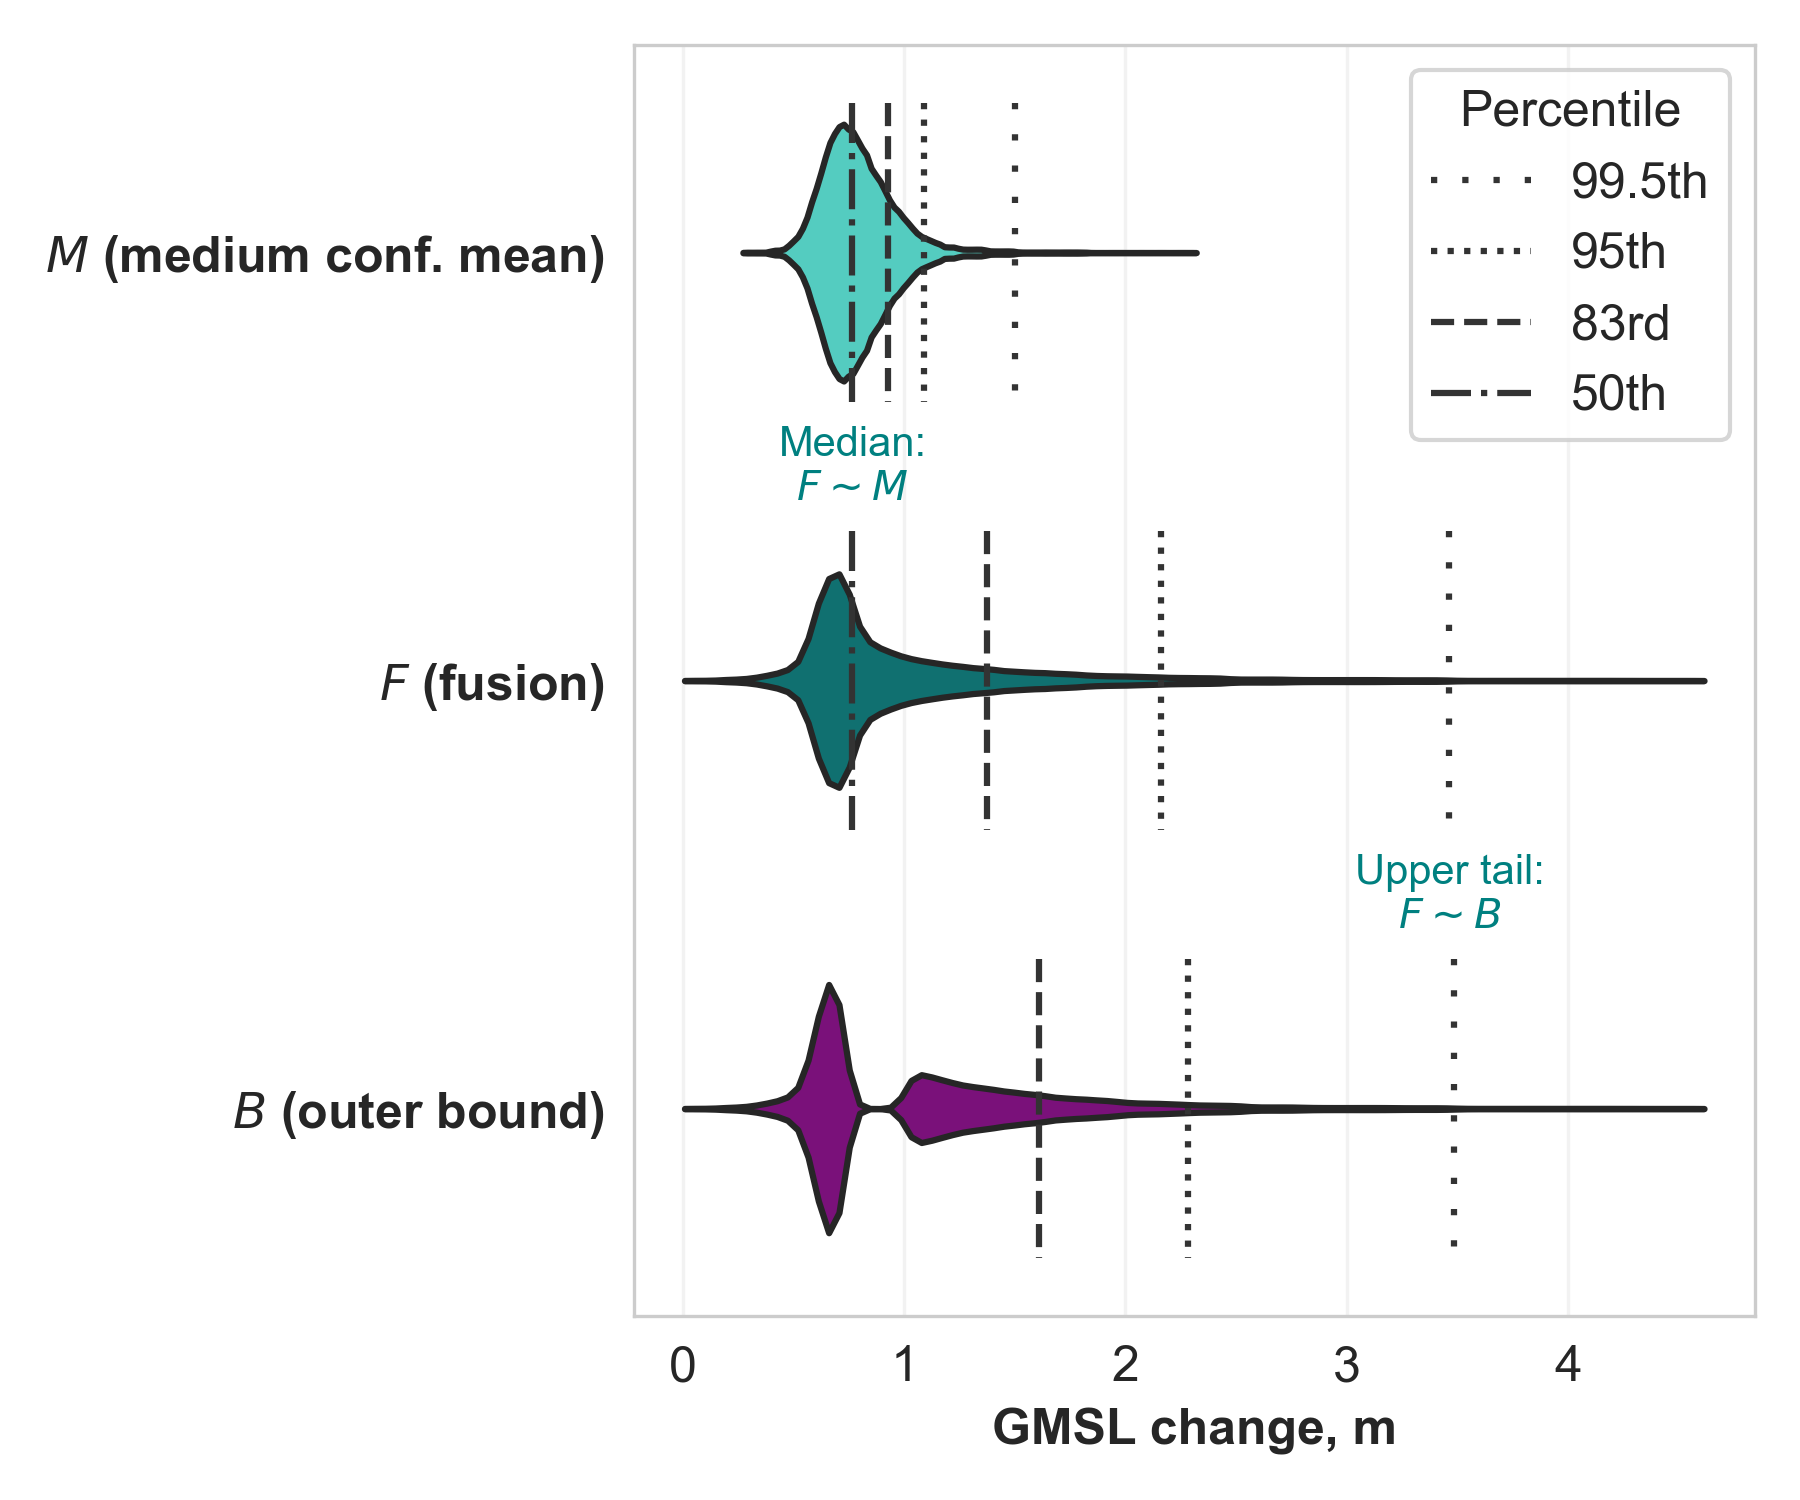
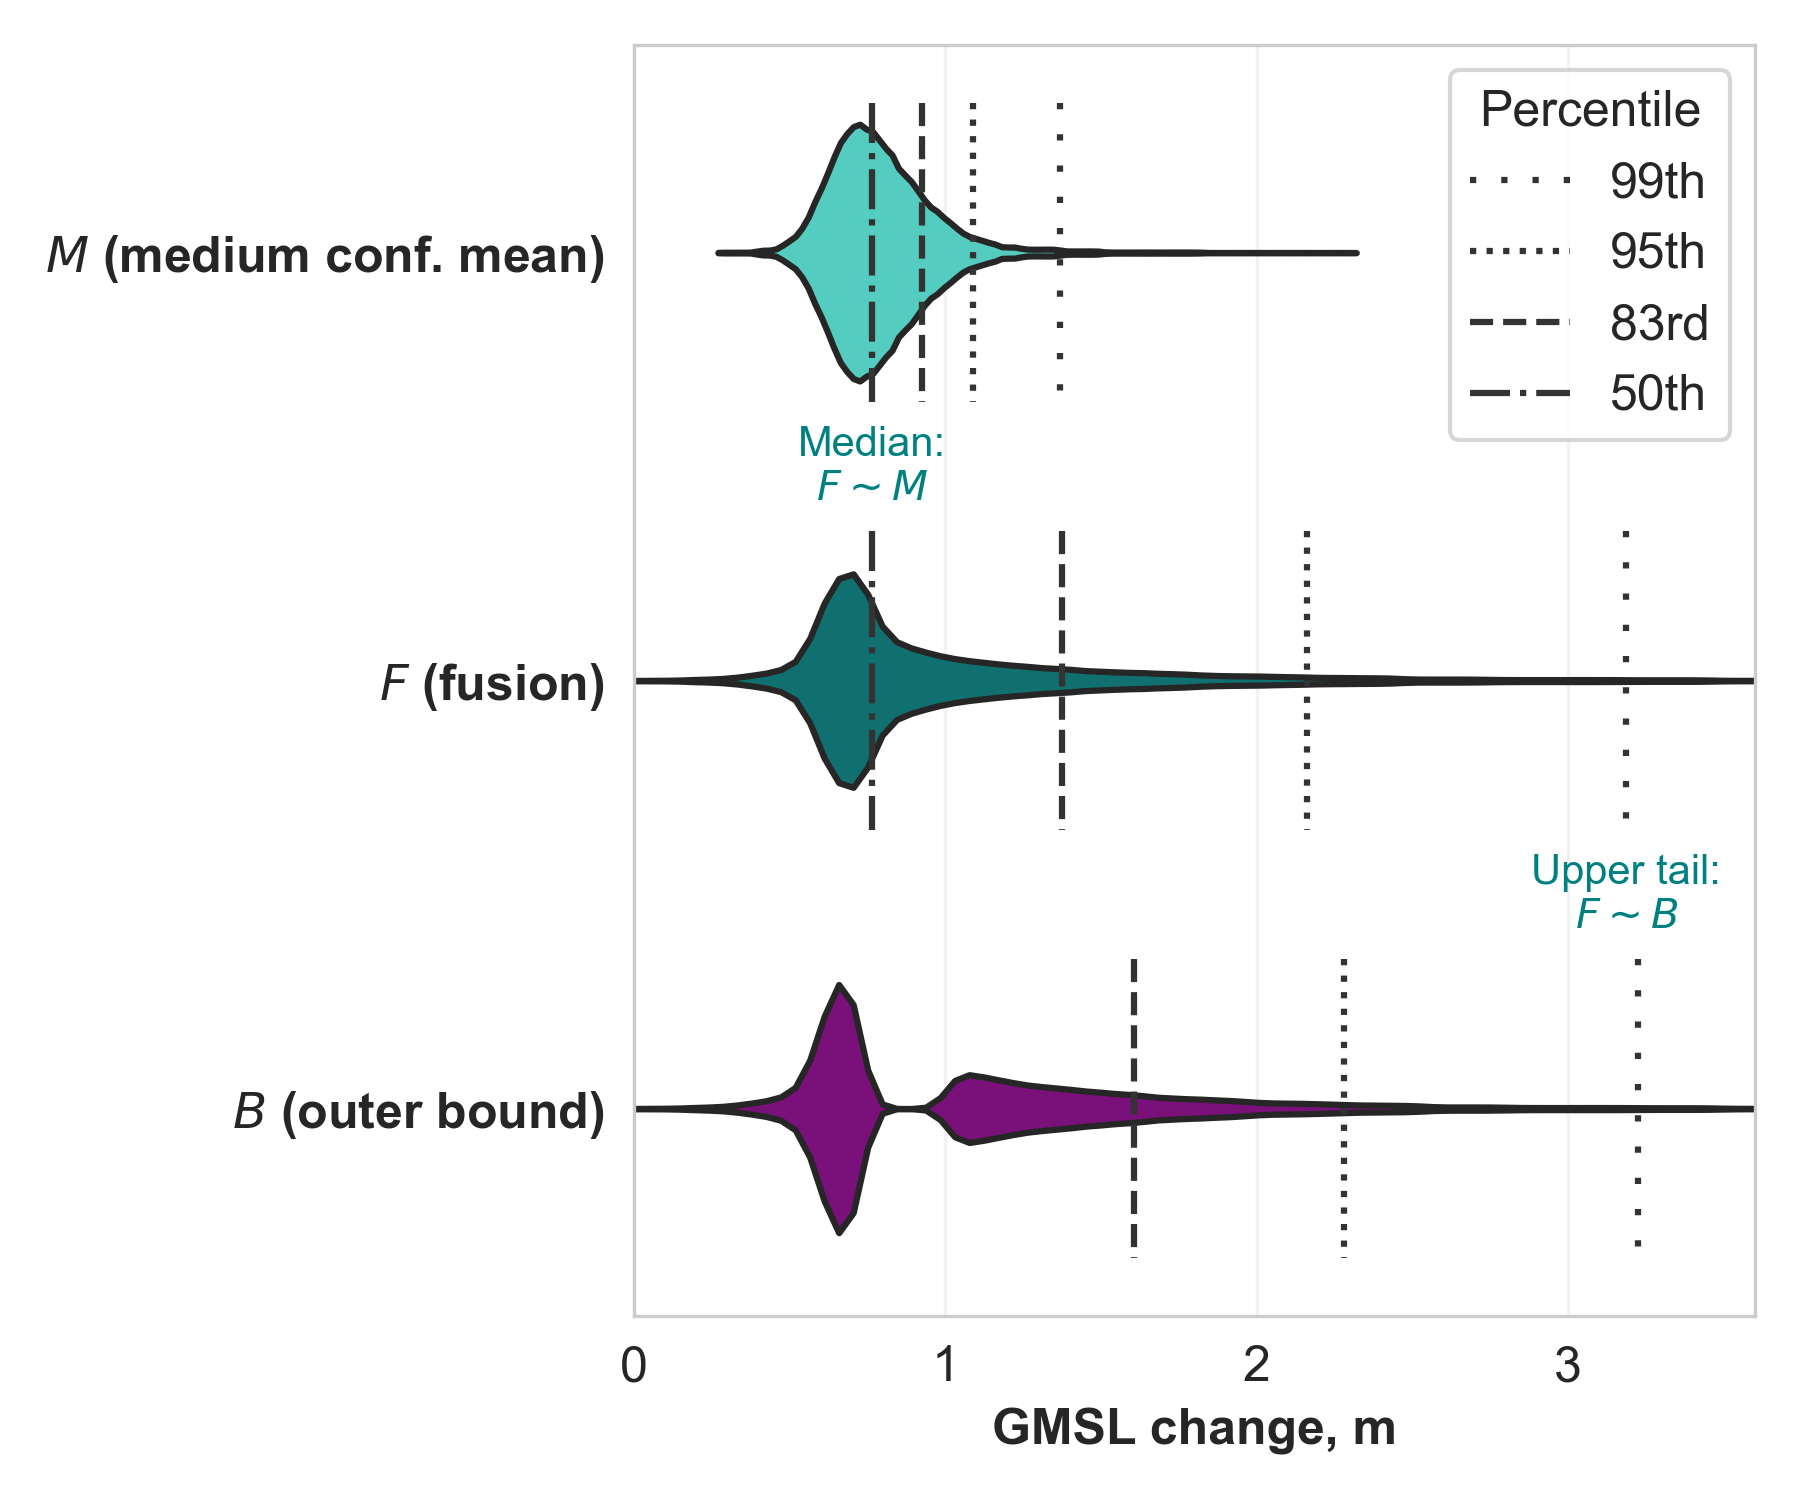
d23a.py plot_sl_violinplot(): show 99th percentile (instead of 99.5th percentile).

diff --git a/d23a.py b/d23a.py
@@ -497,7 +497,7 @@ def plot_sl_violinplot(workflows=('wf_2e', 'fusion_1e+2e', 'outer'),
     # Percentiles, based on quantile function
     for i, workflow in enumerate(workflows):
         qf_da = get_sl_qf(workflow=workflow, rate=rate, scenario=scenario, year=year, gauge=gauge)
-        for p_str, linestyle in {'99.5th': (0, (1, 4)), '95th': 'dotted', '83rd': 'dashed', '50th': 'dashdot'}.items():
+        for p_str, linestyle in {'99th': (0, (1, 4)), '95th': 'dotted', '83rd': 'dashed', '50th': 'dashdot'}.items():
             p = float(p_str[:-2])
             val = qf_da.sel(quantiles=p/100).data  # percentile value
             if i == 0:  # label each percentile only once in legend
@@ -508,7 +508,7 @@ def plot_sl_violinplot(workflows=('wf_2e', 'fusion_1e+2e', 'outer'),
     # Annotations (assuming combination & order of workflows follows default)
     if annotations:
         for p, y, text in zip(
-                [50, 99.5], [0.5, 1.5],
+                [50, 99], [0.5, 1.5],
                 [f'Median:\n{WF_LABEL_DICT[workflows[1]].split()[0]}$\sim${WF_LABEL_DICT[workflows[0]].split()[0]}',
                  f'Upper tail:\n{WF_LABEL_DICT[workflows[1]].split()[0]}$\sim${WF_LABEL_DICT[workflows[2]].split()[0]}']
                 ):
